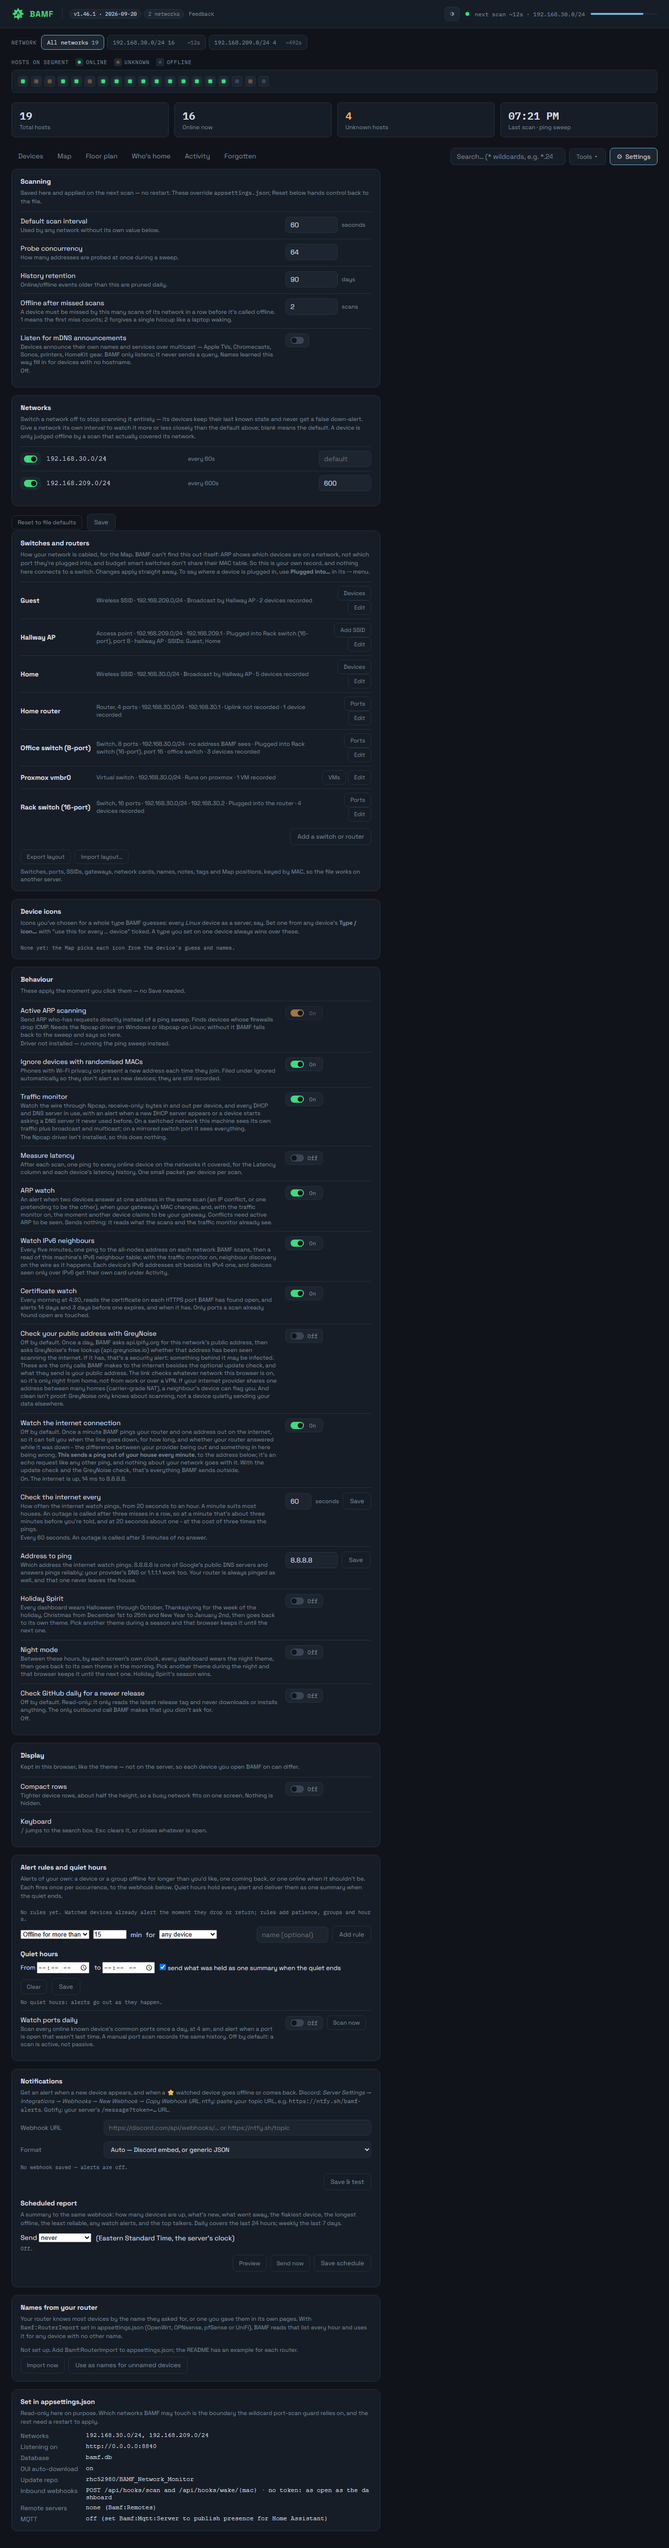
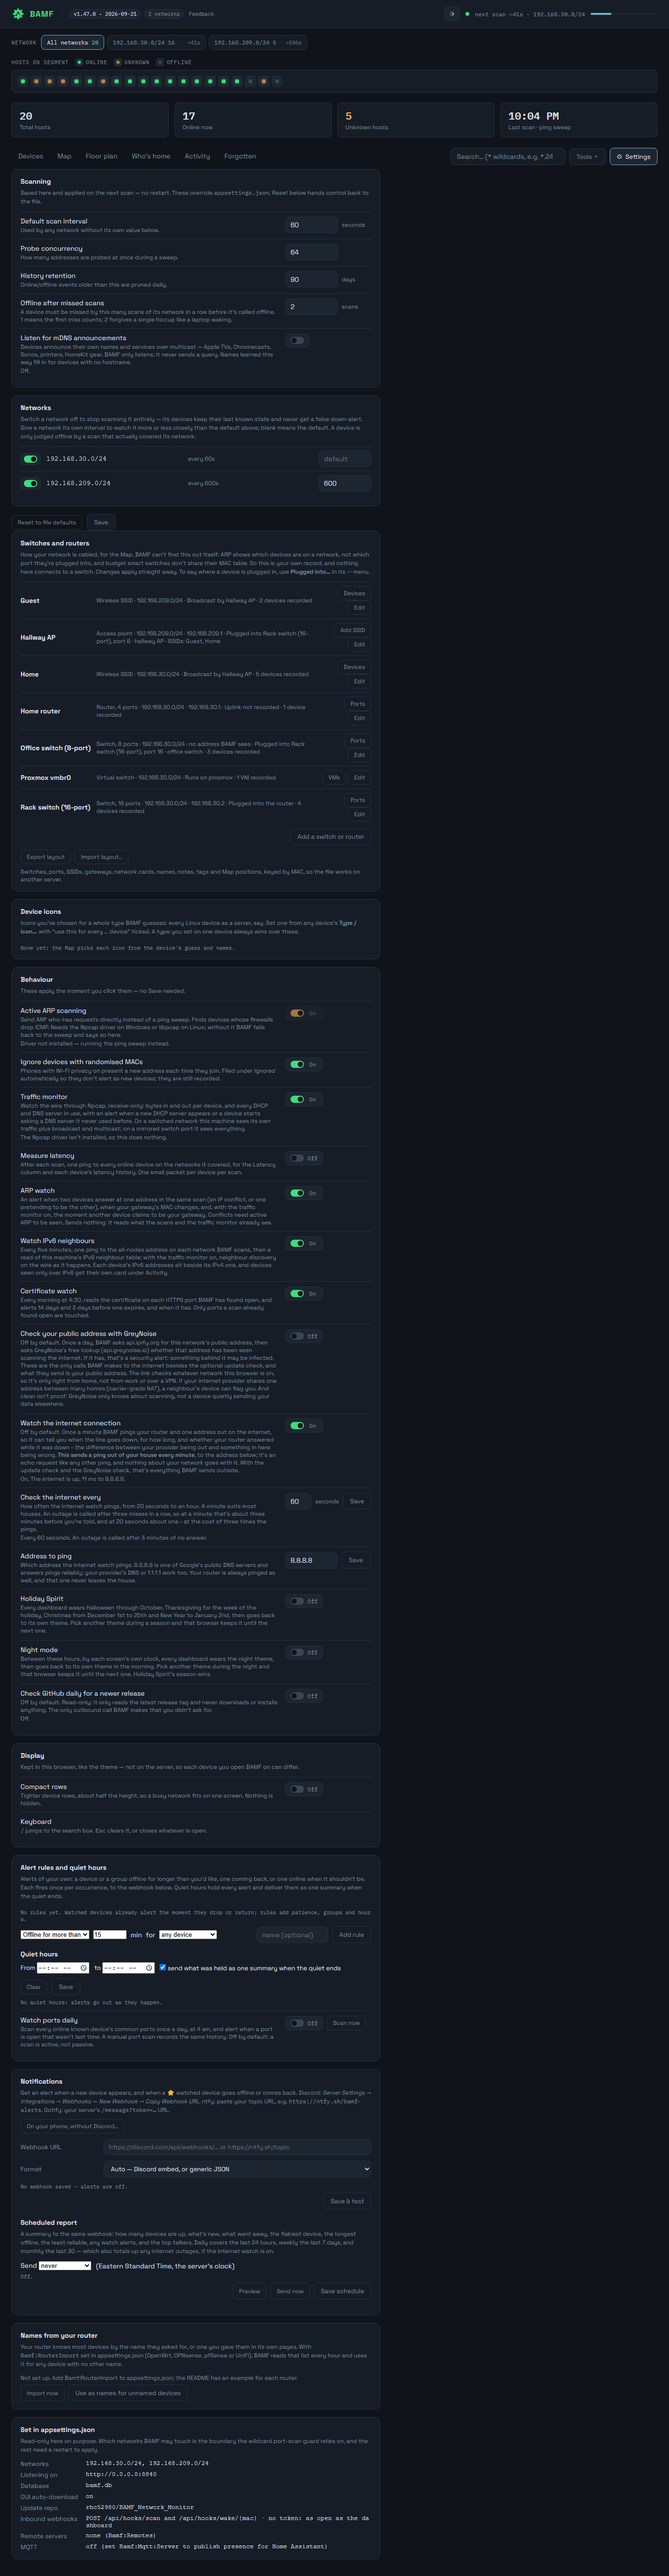
Recapture the Settings screenshot for 1.47.0 (#204)
The Notifications card gained the phone-alerts button and the scheduled
report gained monthly, so the old picture no longer matched the app.

The alt text never mentioned the Notifications card or the scheduled
report even though the picture has always included them. It does now.

diff --git a/README.md b/README.md
@@ -149,7 +149,7 @@ on a timer.
 
 ### Tune it without touching the server
 
-![The Settings tab: scan interval, probe concurrency, history retention, an on/off switch and scan interval per network, the recorded switches, access point and SSIDs with layout export and import, the instant toggles for active ARP, randomised MACs, the traffic monitor, latency measuring, the ARP watch, IPv6 neighbours, the certificate watch, the GreyNoise check of your public address, the internet watch with the address it pings and how often, Holiday Spirit, Night mode with its hours and theme, and update checks, then alert rules including a scheduled wake, quiet hours and the daily port watch](docs/settings.png)
+![The Settings tab: scan interval, probe concurrency, history retention, an on/off switch and scan interval per network, the recorded switches, access point and SSIDs with layout export and import, the instant toggles for active ARP, randomised MACs, the traffic monitor, latency measuring, the ARP watch, IPv6 neighbours, the certificate watch, the GreyNoise check of your public address, the internet watch with the address it pings and how often, Holiday Spirit, Night mode with its hours and theme, and update checks, then alert rules including a scheduled wake, quiet hours and the daily port watch, and last the notification settings: the webhook with a button for setting alerts up on your phone without Discord, and the scheduled report, which can be never, daily, weekly or monthly](docs/settings.png)
 
 Scan cadence, probe concurrency and history retention are editable from the
 dashboard and applied on the next scan — no restart, no editing a file over SSH.
